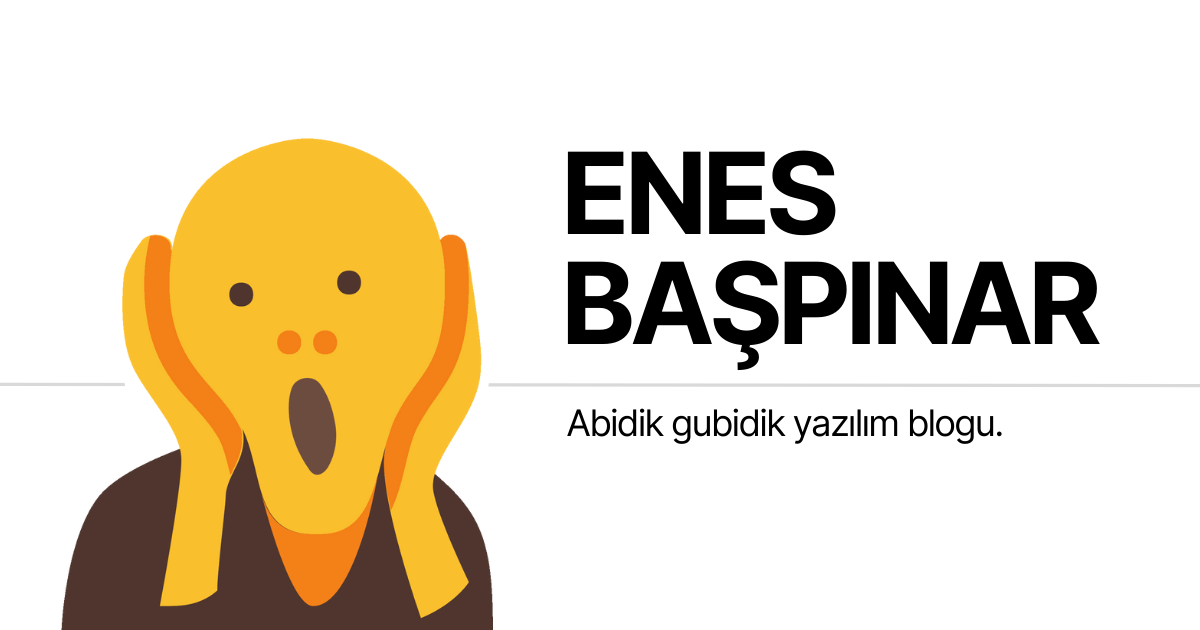
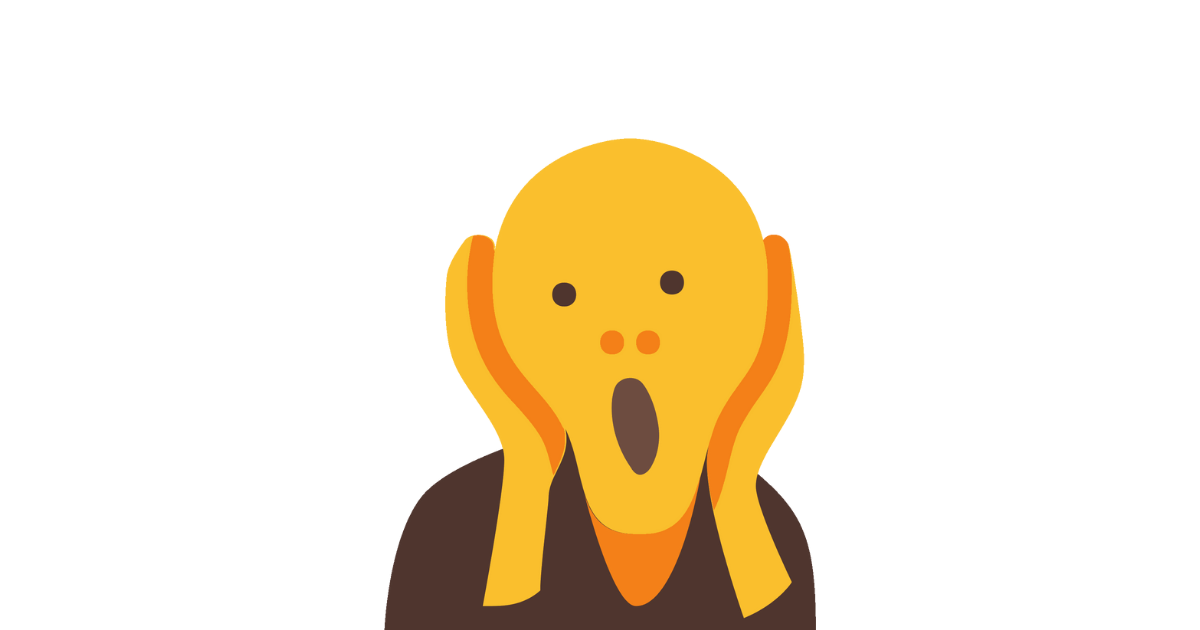
change social card image

diff --git a/pages/api/views/[...slug].ts b/pages/api/views/[...slug].ts
@@ -1,0 +1,39 @@
+// referance: https://codebycorey.com/blog/page-views-nextjs-supabase
+import { NextApiRequest, NextApiResponse } from "next";
+import { SupabaseAdmin } from "utils/supabase-admin";
+
+export default async (req: NextApiRequest, res: NextApiResponse) => {
+  const {
+    query: { slug },
+  } = req;
+
+  const customizedSlug = typeof slug === "string" ? slug : slug.join("/");
+
+  if (req.method === "POST") {
+    // Call our stored procedure with the page_slug set by the request params slug
+    await SupabaseAdmin.rpc("increment_page_view", {
+      page_slug: customizedSlug,
+    });
+
+    return res.status(200).json({
+      message: `Successfully incremented page: ${customizedSlug}`,
+    });
+  }
+
+  if (req.method === "GET") {
+    // Query the pages table in the database where slug equals the request params slug.
+    const { data } = await SupabaseAdmin.from("pages")
+      .select("view_count")
+      .filter("slug", "eq", customizedSlug);
+
+    if (data) {
+      return res.status(200).json({
+        views: data[0]?.view_count || null,
+      });
+    }
+  }
+
+  return res.status(400).json({
+    message: "Unsupported Request",
+  });
+};

diff --git a/utils/supabase-admin.ts b/utils/supabase-admin.ts
@@ -1,0 +1,9 @@
+// referance: https://codebycorey.com/blog/page-views-nextjs-supabase
+import { createClient } from "@supabase/supabase-js";
+
+const supabaseUrl: string = process.env.NEXT_PUBLIC_SUPABASE_URL || "";
+const supabaseServerKey: string = process.env.SUPABASE_SERVICE_KEY || "";
+
+const SupabaseAdmin = createClient(supabaseUrl, supabaseServerKey);
+
+export { SupabaseAdmin };
